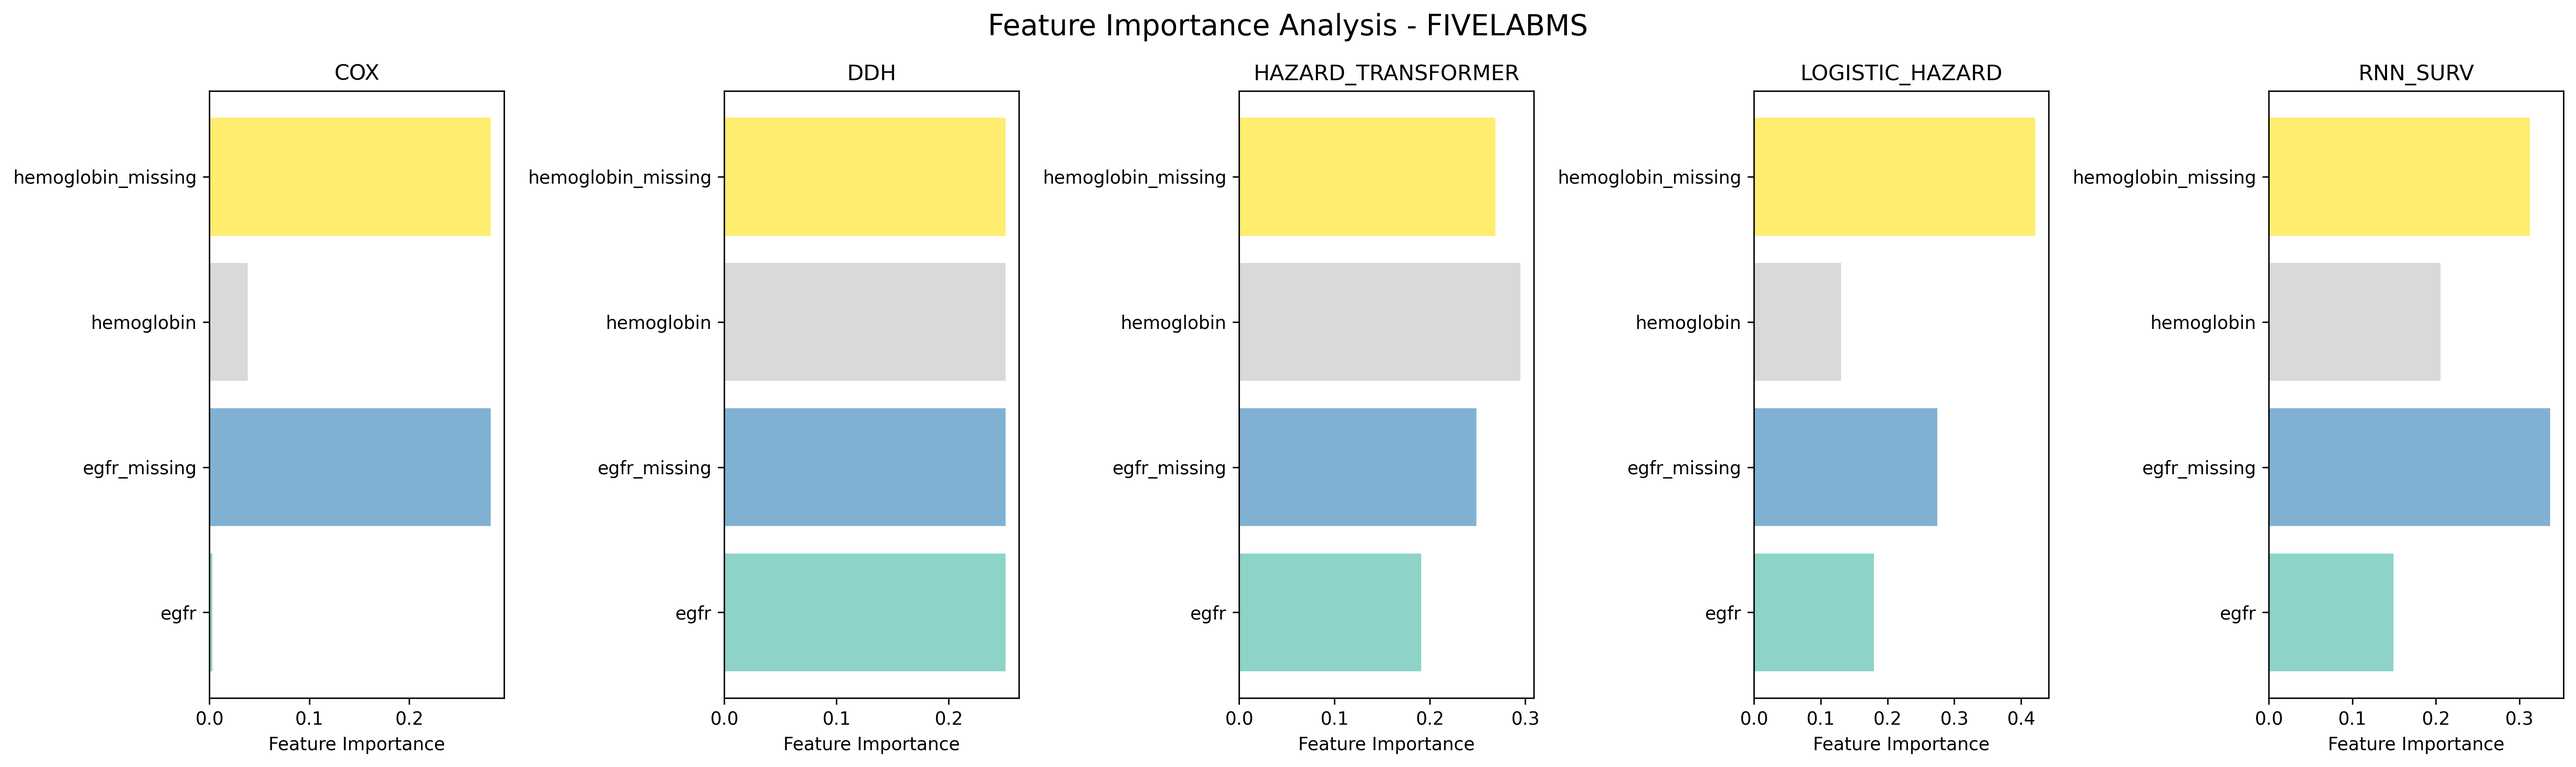
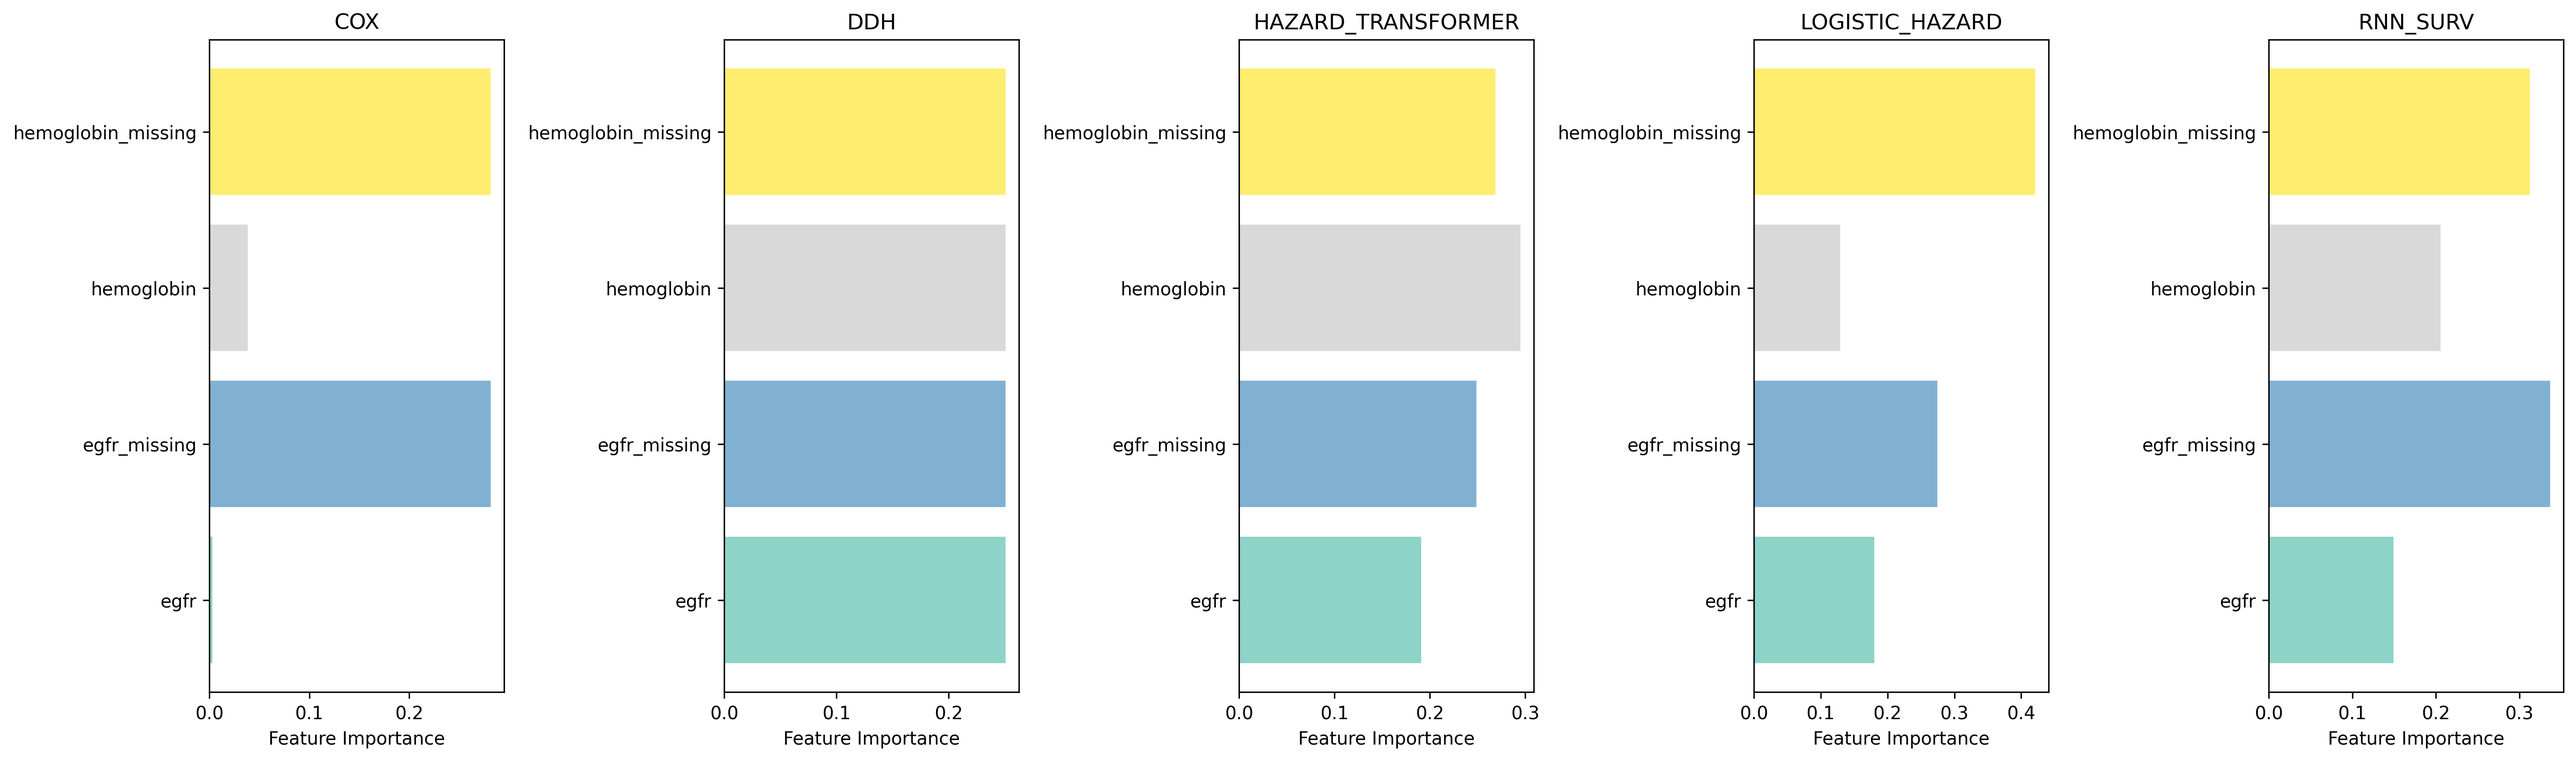
na

diff --git a/pkgs/data_analysis/feature_importance_analysis.py b/pkgs/data_analysis/feature_importance_analysis.py
@@ -162,7 +162,7 @@ class FeatureImportanceAnalyzer:
                 self.log(f"Model file not found: {model_path}")
         
         self.create_consolidated_importance_plot(scenario_name, feature_cols)
-        self.create_shap_plot(scenario_name, feature_cols, test_data)
+        # self.create_shap_plot(scenario_name, feature_cols, test_data)
     
     def get_model_feature_importance(self, model_name, model_path, test_data, feature_cols):
         importance_data = {'features': feature_cols, 'importance': None, 'coefficients': None}
@@ -548,7 +548,6 @@ class FeatureImportanceAnalyzer:
                     ax.set_xticks([])
                     ax.set_yticks([])
             
-            plt.suptitle(f'Feature Importance Analysis - {scenario_name.upper()}', fontsize=16)
             plt.tight_layout()
             
             output_path = self.output_dir / f'{scenario_name}_all_models_feature_importance.png'
